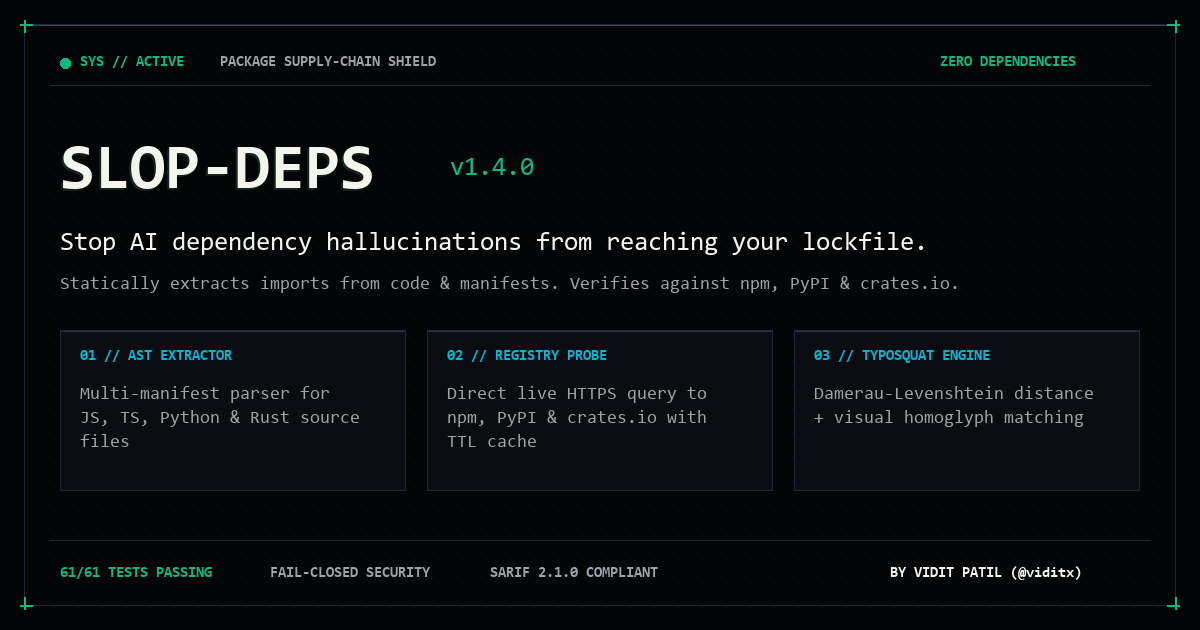
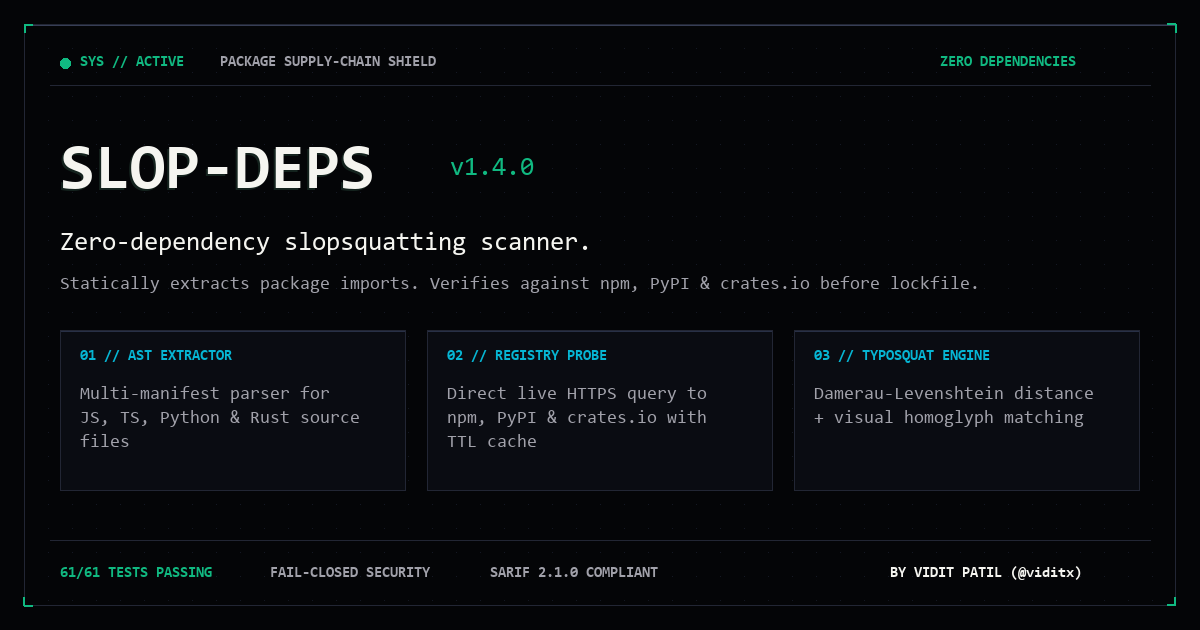
fix(F-04): add programmatic og-image generator and verified 1200x630 asset

Changed region(s): [[0.0308, 0.3619, 0.8017, 0.4825]]

diff --git a/site/morpho/scripts/generate-og.py b/site/morpho/scripts/generate-og.py
@@ -1,0 +1,111 @@
+import os
+from PIL import Image, ImageDraw, ImageFont
+
+WIDTH = 1200
+HEIGHT = 630
+
+# Tactical & Cyber-terminal Palette
+BG_COLOR = (4, 5, 7)              # #040507 (void pitch dark)
+BORDER_COLOR = (34, 38, 52)        # #222634 (machined hairline)
+EMERALD = (16, 185, 129)          # #10B981 (delta emerald)
+TEXT_WHITE = (245, 245, 240)      # #F5F5F0 (milky white)
+TEXT_MUTED = (161, 161, 170)      # #A1A1AA (zinc-400, WCAG AA compliant)
+TEXT_DIM = (113, 113, 122)        # #71717A (zinc-500)
+ACCENT_CYAN = (6, 182, 212)       # #06B6D4 (cyan accent)
+
+img = Image.new('RGB', (WIDTH, HEIGHT), BG_COLOR)
+draw = ImageDraw.Draw(img)
+
+# 1. Subtle background dot grid (0/1 data lattice)
+for x in range(24, WIDTH - 24, 24):
+    for y in range(24, HEIGHT - 24, 24):
+        draw.point((x, y), fill=(20, 24, 35))
+
+# 2. Outer hairline container with notched 2-step pixel corners
+draw.rectangle([24, 24, WIDTH - 25, HEIGHT - 25], outline=BORDER_COLOR, width=1)
+# Specular highlight
+draw.line([25, 25, WIDTH - 26, 25], fill=(55, 62, 85), width=1)
+
+# Corner alignment brackets
+for cx, cy in [(24, 24), (WIDTH - 25, 24), (24, HEIGHT - 25), (WIDTH - 25, HEIGHT - 25)]:
+    dx = 8 if cx == 24 else -8
+    dy = 8 if cy == 24 else -8
+    draw.line([cx, cy, cx + dx, cy], fill=EMERALD, width=2)
+    draw.line([cx, cy, cx, cy + dy], fill=EMERALD, width=2)
+
+# Load fonts safely
+try:
+    font_bold = ImageFont.truetype("C:/Windows/Fonts/consolab.ttf", 64)
+    font_subtitle = ImageFont.truetype("C:/Windows/Fonts/consola.ttf", 26)
+    font_meta = ImageFont.truetype("C:/Windows/Fonts/consola.ttf", 18)
+    font_badge = ImageFont.truetype("C:/Windows/Fonts/consolab.ttf", 15)
+except Exception:
+    font_bold = font_subtitle = font_meta = font_badge = ImageFont.load_default()
+
+# 3. Top telemetry bar
+draw.ellipse([60, 58, 70, 68], fill=EMERALD)
+draw.text((80, 54), "SYS // ACTIVE", fill=EMERALD, font=font_badge)
+draw.text((220, 54), "PACKAGE SUPPLY-CHAIN SHIELD", fill=TEXT_MUTED, font=font_badge)
+draw.text((WIDTH - 260, 54), "ZERO DEPENDENCIES", fill=EMERALD, font=font_badge)
+draw.line([50, 85, WIDTH - 50, 85], fill=BORDER_COLOR, width=1)
+
+# 4. Main Hero Typography: SLOP-DEPS
+draw.text((58, 142), "SLOP-DEPS", fill=(20, 35, 30), font=font_bold)
+draw.text((60, 140), "SLOP-DEPS", fill=TEXT_WHITE, font=font_bold)
+draw.text((450, 155), "v1.4.0", fill=EMERALD, font=font_subtitle)
+
+# Tagline & description
+draw.text((60, 230), "Zero-dependency slopsquatting scanner.", fill=TEXT_WHITE, font=font_subtitle)
+draw.text((60, 275), "Statically extracts package imports. Verifies against npm, PyPI & crates.io before lockfile.", fill=TEXT_MUTED, font=font_meta)
+
+# 5. 3 Defense Pillars Box
+cards = [
+    ("AST EXTRACTOR", "Multi-manifest parser for JS, TS, Python & Rust source files"),
+    ("REGISTRY PROBE", "Direct live HTTPS query to npm, PyPI & crates.io with TTL cache"),
+    ("TYPOSQUAT ENGINE", "Damerau-Levenshtein distance + visual homoglyph matching")
+]
+
+start_y = 330
+card_w = 345
+gap = 22
+
+for i, (head, desc) in enumerate(cards):
+    x = 60 + i * (card_w + gap)
+    draw.rectangle([x, start_y, x + card_w, start_y + 160], fill=(10, 12, 18), outline=BORDER_COLOR, width=1)
+    draw.line([x + 1, start_y + 1, x + card_w - 1, start_y + 1], fill=(40, 48, 70), width=1)
+    draw.text((x + 20, start_y + 18), f"0{i+1} // {head}", fill=ACCENT_CYAN, font=font_badge)
+    
+    words = desc.split()
+    lines = []
+    cur = ""
+    for w in words:
+        if len(cur + " " + w) > 28:
+            lines.append(cur)
+            cur = w
+        else:
+            cur = cur + " " + w if cur else w
+    if cur:
+        lines.append(cur)
+        
+    for li, line in enumerate(lines):
+        draw.text((x + 20, start_y + 55 + li * 24), line, fill=TEXT_MUTED, font=font_meta)
+
+# 6. Bottom footer telemetry
+draw.line([50, 540, WIDTH - 50, 540], fill=BORDER_COLOR, width=1)
+draw.text((60, 565), "61/61 TESTS PASSING", fill=EMERALD, font=font_badge)
+draw.text((270, 565), "FAIL-CLOSED SECURITY", fill=TEXT_MUTED, font=font_badge)
+draw.text((490, 565), "SARIF 2.1.0 COMPLIANT", fill=TEXT_MUTED, font=font_badge)
+draw.text((WIDTH - 310, 565), "BY VIDIT PATIL (@viditx)", fill=TEXT_WHITE, font=font_badge)
+
+output_dir = os.path.dirname(os.path.dirname(os.path.abspath(__file__)))
+output_path = os.path.join(output_dir, "public", "og-image.png")
+img.save(output_path, "PNG", optimize=True)
+
+# Verification checks
+size_kb = os.path.getsize(output_path) / 1024
+unique_colors = len(img.getcolors(maxcolors=100000) or [])
+assert img.size == (1200, 630), f"Invalid dimensions: {img.size}"
+assert size_kb < 300, f"File size too large: {size_kb} KB >= 300 KB"
+assert unique_colors > 10, f"Not enough unique colors: {unique_colors}"
+
+print(f"Generated valid OG image: {output_path} ({size_kb:.1f} KB, {unique_colors} unique colors, {img.size})")
